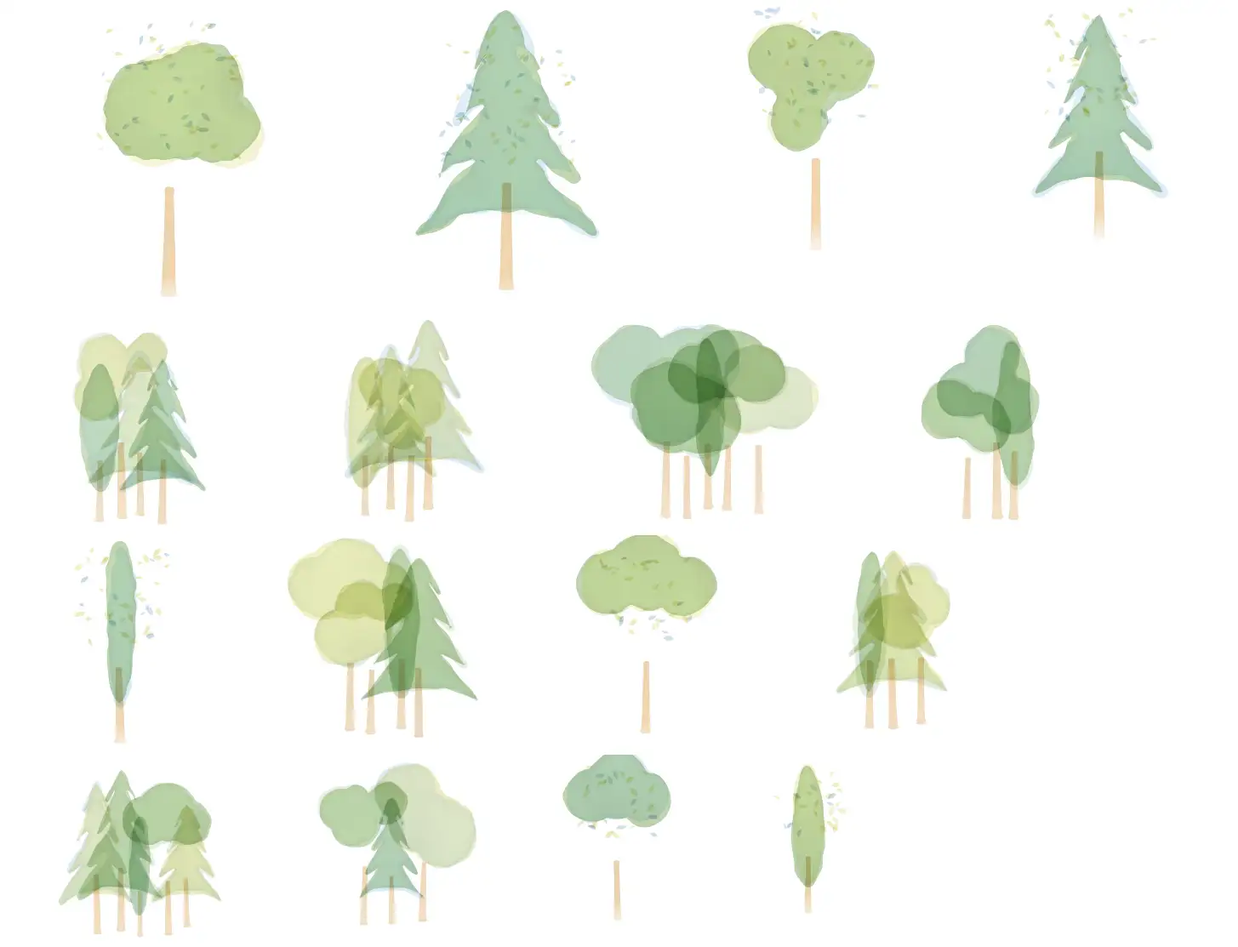
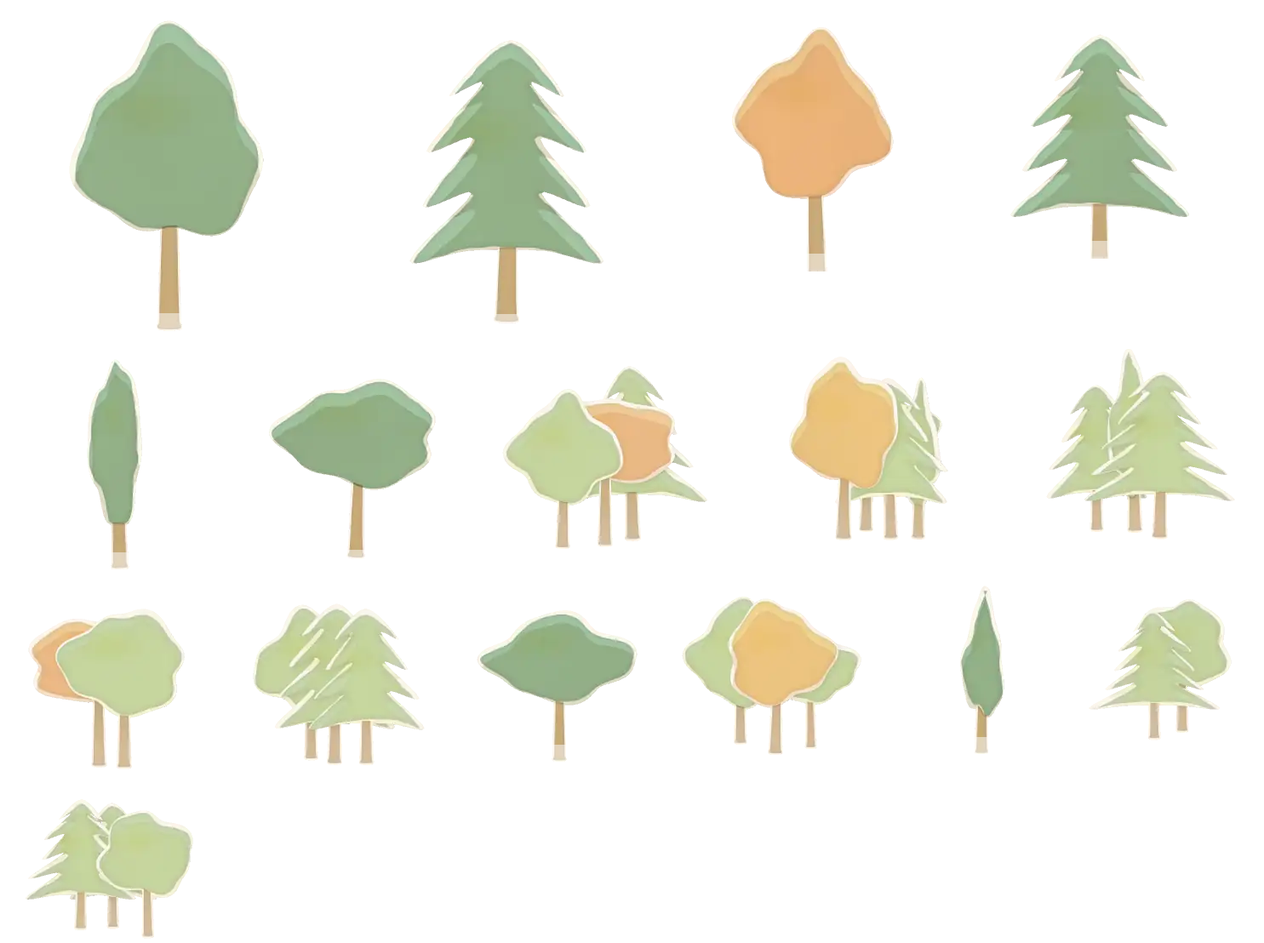
工房ホームページ：森を「水彩で染めた切り紙」に描き直し（秋）・透明つきの絵を軽く
- 森の木を1本ずつの紙に：白い切り口・手前の紙が奥を隠す・葉むらは幹の上に載る（葉が浮いて見えた）
- 奥の森は切り紙の2層と、層の間のもや。秋は広葉樹の一部を金・朱・黄土に（紙に直接）
- 手前の高い木は左右のふちだけ。中ほどの木は間をあけ、世界樹の前に壁を作らない
- 揺れる木は透明な地の紙の絵をそのまま重ね、影は動かない森の地に
- 透明つきの絵は、透明な所の色を紙の色にそろえ、透明度を詰めて webp に（図書館の壁・飛び出す紙・住人も軽く）

diff --git a/app.js b/app.js
@@ -1,7 +1,7 @@
 (() => {
   'use strict';
   // 台帳（works.json）は、組み立ての時にここへ流しこむ（ページの外から文字は入らない）
-  const DATA = {"places":[{"id":"roots","name":"根元の工房","sub":"地図と道具","line":"会社の道具を、AIとつくる作業場。連載の中身を、触れる地図と道具にしました。"},{"id":"branch","name":"枝","sub":"カードの花","line":"節目に咲く、仕掛けつきのカード。LINE で送れます。"},{"id":"play","name":"遊び場","sub":"ミニゲーム","line":"触って遊べるミニゲームの部屋。ここから直に入れます。"},{"id":"spring","name":"泉","sub":"音楽","line":"AI音楽工房の MV。工房が企画し、BGM&V Studio が制作しています。"},{"id":"cave","name":"洞窟","sub":"連載と動画","line":"経営者のための連載「AI内製化の羅針盤」と、記事の動画。"},{"id":"cloud","name":"雲の上","sub":"旅","line":"本物の旅のしおりと、想像の世界旅行。"}],"notice":["当工房では職人が気ままに作っているため、突然変更が入ったり、途中でとまっているコンテンツがあったりします。","これは作成途中をリアルタイムにお見せする趣旨のものですので、作りかけの雰囲気も含めて楽しんでもらい、成長を見守っていただけたら幸いです。"],"voices":{"調整中":["ちょっと調整中。見てもいいけど変なところがあっても気にしないでね。","いま、ねじを締め直しているところ。動くけど、ときどきガタッとするかも。","仕上げの真っ最中！ 気づいたことがあったら、そっと教えてね。","ただいま磨き中。ピカピカになるまで、もう少し。"],"作りかけ":["ただいま作りかけ。リアルタイム進行中。","まだ骨組みだけど、のぞいていってね。","作っている途中をそのまま見せちゃうよ。明日には変わってるかも！","工房の机の上で、いま組み立て中。"],"準備中":["今作成中だよ！もうすぐ公開するね！","まだ種の中。芽が出たら、ここでお知らせするね。","いま、絵の具を溶いているところ。もう少しだけ待っててね。","職人がこっそり仕込み中。お楽しみに！"]},"works":[{"place":"roots","group":"3Dの地図","kind":"触れる","name":"4つの島の航海図（利益マップ）","note":"「何から入れると儲かる？」を、3Dの海図に。","url":"https://tatatasan323-cell.github.io/note-app/"},{"place":"roots","group":"3Dの地図","kind":"触れる","name":"天空の城への道（内製化ロードマップ）","note":"6つの関門を越えて、天空の城へ。","url":"https://tatatasan323-cell.github.io/note-app/road.html"},{"place":"roots","group":"3Dの地図","kind":"触れる","name":"AIの全体地図（6層＋4横断面）","note":"会社のAIの仕組みを、6つの層で見る。","url":"https://tatatasan323-cell.github.io/note-app/arch.html"},{"place":"roots","group":"3Dの地図","kind":"触れる","name":"そもそもAIって？ 5部作の地図","note":"「そもそもAIって？」5本の地図。","url":"https://tatatasan323-cell.github.io/note-app/aimap/"},{"place":"roots","group":"道具","kind":"触れる","name":"城 ─ 経営ステータス","note":"社長の一枚画面。架空の会社で動くデモ。","url":"https://tatatasan323-cell.github.io/castle/"},{"place":"roots","group":"道具","kind":"触れる","name":"転記ゼロ（tenki-zero 体験版）","note":"転記の手作業をなくす仕組みを、ブラウザで試す。","url":"https://tatatasan323-cell.github.io/tenki-zero/"},{"place":"roots","group":"手引き","kind":"読む","name":"AIエージェント利用ガイド","note":"部下としてハーネスする。社内で配れる手引き。","url":"https://tatatasan323-cell.github.io/note-app/ai-agent-guide.html"},{"place":"roots","group":"手引き","kind":"読む","name":"乗っ取り対策の手引き","note":"パスキーでも守れない、2つの穴。","url":"https://tatatasan323-cell.github.io/note-app/security-guide.html"},{"place":"roots","group":"手引き","kind":"読む","name":"会社のセキュリティ段階表","note":"自社の段階を確かめる表。","url":"https://tatatasan323-cell.github.io/note-app/security-levels.html"},{"place":"roots","group":"時報","kind":"読む","name":"ＡＩ内製化時報 第001号","note":"システムプロンプト、八割削除。","url":"https://tatatasan323-cell.github.io/note-app/jihou-001.html"},{"place":"roots","group":"時報","kind":"読む","name":"ＡＩ内製化時報 第002号","note":"穴を空けたのはAI、突いたのもAI。","url":"https://tatatasan323-cell.github.io/note-app/jihou-002.html"},{"place":"roots","group":"工房のこれから","kind":"歩く","status":"準備中","name":"世界樹の村（3Dで歩ける町）","note":"この地図の本から入って、村を歩けるようにします。","url":""},{"place":"branch","group":"カード","kind":"触れる","name":"ハロウィン招待状 ─ おばけの庭へようこそ","note":"おばけに触れると、音と豆知識。","url":"https://tatatasan323-cell.github.io/gimmick-cards/halloween/"},{"place":"branch","group":"カード","kind":"触れる","name":"とろけて聖夜 ─ おかしな港町","note":"宝石をはじき、ステンドグラスを割り、氷を削る冬の港町（動く3D）。","url":"https://tatatasan323-cell.github.io/gimmick-cards/christmas-town/"},{"place":"branch","group":"カード","kind":"触れる","name":"とろけて聖夜 ─ X'mas グリーティングカード","note":"港町とつながるカード。","url":"https://tatatasan323-cell.github.io/gimmick-cards/christmas-town/card.html"},{"place":"branch","group":"カード","kind":"触れる","status":"調整中","name":"正月のカード ─ 作品の一覧","note":"正月のカード 76 作。絵を押すと、さわって動く本物が開きます。","url":"https://ai-naiseika.github.io/cards/shogatsu/"},{"place":"branch","group":"カード","kind":"触れる","status":"作りかけ","name":"送る予定 ─ 節目のカード","note":"カードを、あとで送るための予定。時間になったら、スマホのカレンダーが知らせます。","url":"https://ai-naiseika.github.io/cards/yotei/"},{"place":"play","group":"おかしな港町の部屋","kind":"触れる","name":"ステンドグラスの礼拝堂","note":"窓をタップすると、かけらが落ちて砕け、光の粒になって元の窓へ。","date":"2026-10-16","url":"https://tatatasan323-cell.github.io/gimmick-cards/christmas-town/glass.html?from=kobo"},{"place":"play","group":"おかしな港町の部屋","kind":"触れる","name":"宝石の美術館","note":"一人称で歩く大ホール。宝石はそっと触ると歌い、強くたたくと…？","date":"2026-10-16","url":"https://tatatasan323-cell.github.io/gimmick-cards/christmas-town/museum.html?from=kobo"},{"place":"play","group":"おかしな港町の部屋","kind":"触れる","name":"氷の彫像の広場","note":"ノミでコンコン、機械でガリガリ。削って宝石を取り出す。","date":"2026-10-16","url":"https://tatatasan323-cell.github.io/gimmick-cards/christmas-town/ice.html?from=kobo"},{"place":"play","group":"おかしな港町の部屋","kind":"触れる","name":"ぷるぷる水そう","note":"水の中を泳ぎながら、グミたちをつまんで伸ばす。","date":"2026-10-16","url":"https://tatatasan323-cell.github.io/gimmick-cards/christmas-town/swim.html?from=kobo"},{"place":"play","group":"おかしな港町の部屋","kind":"触れる","name":"グミのつみき","note":"空に浮かぶテーブルで、グミの積み木。はじいて、持って、高く積む。","date":"2026-10-16","url":"https://tatatasan323-cell.github.io/gimmick-cards/christmas-town/blocks.html?from=kobo"},{"place":"spring","group":"MV","kind":"見る","name":"雨上がりの小径 ― 水たまりを、跳んでいたころ","note":"最初の MV。","date":"2026-10-06","url":"https://youtu.be/yi53ACtNxp8"},{"place":"spring","group":"MV","kind":"見る","name":"パンプキン・ポン！ ― ハロウィンの夜のドキドキ","note":"切り絵の魔女とモンスターの踊り。","date":"2026-10-14","url":"https://youtu.be/uFx4Vcr8o8A"},{"place":"spring","group":"MV","kind":"見る","name":"Friends Around the Table ─ テーブルに集まれ！","note":"クリスマス3部作の1本目。","date":"2026-10-19","url":"https://youtu.be/pEvqS5da3-s"},{"place":"spring","group":"MV","kind":"見る","name":"Christmas Feels Like Being ─ きみといる、それがクリスマス","note":"クリスマス3部作の2本目。","date":"2026-10-20","url":"https://youtu.be/Z6vJkx9_u-s"},{"place":"spring","group":"MV","kind":"見る","name":"Singing Glory ─ グローリー・グローリー！","note":"クリスマス3部作の3本目。","date":"2026-10-23","url":"https://youtu.be/oR3KyE3Zmxo"},{"place":"cave","group":"記事の動画","kind":"見る","name":"AI導入、なぜ罠にはまる？ ─ 天空の城へ続く「6つの関門」","note":"","date":"2026-10-13","url":"https://youtu.be/-Dja11xVGzQ"},{"place":"cave","group":"記事の動画","kind":"見る","name":"AI導入、まず何から？ ─ 儲けにつながる「4つの島」の航海図","note":"","date":"2026-10-10","url":"https://youtu.be/xKATNxc-q50"},{"place":"cave","group":"記事の動画","kind":"見る","name":"動画生成AIなしで描いた26の画風 ── コードで描くアニメーション見本帳","note":"","date":"2026-10-07","url":"https://youtu.be/dQ2MLnKi8rE"},{"place":"cave","group":"記事の動画","kind":"見る","name":"DeepSeekなど中国AIは業務に使っていい？ ー 決め手は性能でも価格でもなく「調達」","note":"","date":"2026-10-06","url":"https://youtu.be/P4EKVp7NFms"},{"place":"cave","group":"記事の動画","kind":"見る","name":"「AIで、仕事は消えるのか」──ある会社の \"未来の一日\"【朗読ストーリー】","note":"","date":"2026-08-15","url":"https://youtu.be/s-KqdbO6xWk"},{"place":"cave","group":"記事の動画","kind":"見る","name":"【HTMLとは？ Pythonとは？】 AI内製化の全体像が4分で分かる見取り図","note":"","date":"2026-07-27","url":"https://youtu.be/c1A3KVXweG0"},{"place":"cave","group":"記事の動画","kind":"見る","name":"【スクール不要】月3,000円で始めるAI内製化／総集編・全8話","note":"","date":"2026-07-03","url":"https://youtu.be/3dDNd_MuB0Y"},{"place":"cave","group":"物語","kind":"読む","name":"未来の一日 ─ どこにでもある会社の朝","note":"朗読ストーリーの本。","url":"https://tatatasan323-cell.github.io/note-app/mirai/"},{"place":"cave","group":"連載","kind":"読む","date":"2026-10-19","name":"AI利用、どこから始めるか。答えは「1人」と「1つの痛み」","url":"https://note.com/ai_naiseika/n/n27912da5b3da"},{"place":"cave","group":"連載","kind":"読む","date":"2026-10-13","name":"「スクールもコンサルも要らない」の、本当の意味","url":"https://note.com/ai_naiseika/n/n51217db465e9"},{"place":"cave","group":"連載","kind":"読む","date":"2026-10-12","name":"前橋の観光案内を、AIと2日で作る ー 「確かめた度合い」を隠さない作り方","url":"https://note.com/ai_naiseika/n/n5c6551d1beac"},{"place":"cave","group":"連載","kind":"読む","date":"2026-10-12","name":"工房からの警告 再び ー AIに任せていい所、いけない所","url":"https://note.com/ai_naiseika/n/neb45bbba31cf"},{"place":"cave","group":"連載","kind":"読む","date":"2026-10-10","name":"AIエージェントがあるのに、仕組みを作る理由 ー 内製化すべき2つの場所","url":"https://note.com/ai_naiseika/n/n667d22b71479"},{"place":"cave","group":"連載","kind":"読む","date":"2026-10-07","name":"会話だけで動画を作る ー【脱・動画生成】AIアニメーションの可能性","url":"https://note.com/ai_naiseika/n/na5e82389ac72"},{"place":"cave","group":"連載","kind":"読む","date":"2026-10-06","name":"工房からの警告 ー 「AIが勝手に動き回る？」報道の真偽と、守るべき場所","url":"https://note.com/ai_naiseika/n/n4c308409efd9"},{"place":"cave","group":"連載","kind":"読む","date":"2026-10-03","name":"ある日突然の「アカバン」 ー 生成AIサブスクの落とし穴","url":"https://note.com/ai_naiseika/n/n8923fd964394"},{"place":"cave","group":"連載","kind":"読む","date":"2026-09-29","name":"AI巨額投資の行く末 ー いつか来る「ババ抜き」ゲームの終わり","url":"https://note.com/ai_naiseika/n/nc9e8207bcf78"},{"place":"cave","group":"連載","kind":"読む","date":"2026-09-28","name":"パスキーも乗っ取られる時代に。必ずすべきセキュリティ対策とは。","url":"https://note.com/ai_naiseika/n/n5b747190fa6e"},{"place":"cave","group":"連載","kind":"読む","date":"2026-09-27","name":"AI暴走論と終末論のさなかで ー あなたがすべき一手とは","url":"https://note.com/ai_naiseika/n/nf04f65023439"},{"place":"cave","group":"連載","kind":"読む","date":"2026-09-21","name":"奇跡の37手から10年。中国AIの実力と、日本企業が引くべき一線。","url":"https://note.com/ai_naiseika/n/n31214e08120e"},{"place":"cave","group":"連載","kind":"読む","date":"2026-09-20","name":"AI依存症に陥らないためのガイド ー 「AIに聞く/指示する」2つの違い","url":"https://note.com/ai_naiseika/n/n4193a3063552"},{"place":"cave","group":"連載","kind":"読む","date":"2026-09-14","name":"あなたのAI、期待通り動きますか？ ー AIの力を引き出すための思考法","url":"https://note.com/ai_naiseika/n/n7e4462f1908f"},{"place":"cave","group":"連載","kind":"読む","date":"2026-09-08","name":"バックオフィスが消える日。社内ステータスがリアルに見える未来への羅針盤。","url":"https://note.com/ai_naiseika/n/n07f8688e64df"},{"place":"cave","group":"連載","kind":"読む","date":"2026-08-31","name":"AIが空けた穴を、別のAIが5日で見つけて突く ── 8月までのAI事故と、私の工房の点検結果","url":"https://note.com/ai_naiseika/n/ned77cf0c294e"},{"place":"cave","group":"連載","kind":"読む","date":"2026-08-26","name":"AIのこれから ─ 「情報の土台」を持つことの意味","url":"https://note.com/ai_naiseika/n/n54fd60e90f04"},{"place":"cave","group":"連載","kind":"読む","date":"2026-08-24","name":"AI最前線 ─ 代表5社の現在地と、内製化に使うべき道具","url":"https://note.com/ai_naiseika/n/n06bea781e796"},{"place":"cave","group":"連載","kind":"読む","date":"2026-08-17","name":"OpenAIという物語 ─ 「人類のためのAI」は、どこへ向かっているのか","url":"https://note.com/ai_naiseika/n/n12816bc47432"},{"place":"cave","group":"連載","kind":"読む","date":"2026-08-11","name":"70年というAIの歩み ─ その挑戦と、“ 奇跡の一手 ” と、一本の論文","url":"https://note.com/ai_naiseika/n/n3471aeed4c26"},{"place":"cave","group":"連載","kind":"読む","date":"2026-08-01","name":"AIとは本当は何なのか　優秀な相棒？　頼れる相談役？　得体のしれない何か？","url":"https://note.com/ai_naiseika/n/n33eadda7b1b0"},{"place":"cave","group":"連載","kind":"読む","date":"2026-07-31","name":"経営者が知るべき、最後まで残る仕事 ─ AIが連れて行く “異世界” の話","url":"https://note.com/ai_naiseika/n/ne340418a0949"},{"place":"cave","group":"連載","kind":"読む","date":"2026-07-28","name":"Anthropicが、自社のAI開発ツールの内部指示を8割以上削除。その真意は？","url":"https://note.com/ai_naiseika/n/nec9184d934b1"},{"place":"cave","group":"連載","kind":"読む","date":"2026-07-27","name":"HTMLとは？ Pythonとは？ ─ 目指す内製化を一目で理解する見取り図","url":"https://note.com/ai_naiseika/n/ne47dde16170f"},{"place":"cave","group":"連載","kind":"読む","date":"2026-07-23","name":"AIは本当に安全なのか？ 世間で騒がれているプロンプトインジェクションを回避する唯一の方法とは？","url":"https://note.com/ai_naiseika/n/nd3d82deb2f4f"},{"place":"cave","group":"連載","kind":"読む","date":"2026-07-20","name":"その事務仕事いつまでやるのですか？【２】　例えば転記作業が無くなる日","url":"https://note.com/ai_naiseika/n/n5f46bef5c41b"},{"place":"cave","group":"連載","kind":"読む","date":"2026-07-12","name":"その事務仕事いつまでやるのですか？【１】　例えば明細を放り込むだけのツール","url":"https://note.com/ai_naiseika/n/n56e563d80e2a"},{"place":"cave","group":"連載","kind":"読む","date":"2026-07-06","name":"AI導入、知らないと失敗する ─ 成功に近づくための「内製化ロードマップ」","url":"https://note.com/ai_naiseika/n/nbf98e9add127"},{"place":"cave","group":"連載","kind":"読む","date":"2026-07-04","name":"ぶっちゃけ、AIは何から入れると儲かる？ ─ 経営者のための “利益” の地図","url":"https://note.com/ai_naiseika/n/nb7e3a2ca7fca"},{"place":"cave","group":"連載","kind":"読む","date":"2026-06-29","name":"繰り返し定型作業をAIで ─ 一度の “仕組み” が大切","url":"https://note.com/ai_naiseika/n/n9462746fd8ba"},{"place":"cave","group":"連載","kind":"読む","date":"2026-06-22","name":"メールは良いのに、AIはダメ？ ─ 会社の情報を “どこまで外に出すか”","url":"https://note.com/ai_naiseika/n/n295bc71d253d"},{"place":"cave","group":"連載","kind":"読む","date":"2026-06-15","name":"プロトタイプは早い、本番はその先 ─ 内製化を「育てる」ということ","url":"https://note.com/ai_naiseika/n/n4f8ea3f4696d"},{"place":"cave","group":"連載","kind":"読む","date":"2026-06-12","name":"バイブコーディングが通用しなくなる日 ─ AIに渡す『要件定義』の話","url":"https://note.com/ai_naiseika/n/n5f043fb74a72"},{"place":"cave","group":"連載","kind":"読む","date":"2026-06-09","name":"AIは嘘をつかない。けれど、あなたに「忖度」する","url":"https://note.com/ai_naiseika/n/n34c94b0c2a20"},{"place":"cave","group":"連載","kind":"読む","date":"2026-06-04","name":"AIと迷走しないために、最初にやるべきこと","url":"https://note.com/ai_naiseika/n/nb72e3552d43d"},{"place":"cave","group":"連載","kind":"読む","date":"2026-05-31","name":"AIエージェントを、今日入れる ─ 使い方も、AIに聞けばいい","url":"https://note.com/ai_naiseika/n/n808d67e92440"},{"place":"cave","group":"連載","kind":"読む","date":"2026-05-26","name":"「こうしたい」と伝えるだけで、何かが作れる時代","url":"https://note.com/ai_naiseika/n/n912fbc83f1c6"},{"place":"cave","group":"連載","kind":"読む","date":"2026-05-25","name":"料理人だった私が、AI内製化でシステムを作れる理由","url":"https://note.com/ai_naiseika/n/nd6a51b98694c"},{"place":"cave","group":"連載","kind":"読む","date":"2026-05-18","name":"AIを学ぶのに「スクール」「コンサル」が要らない新時代","url":"https://note.com/ai_naiseika/n/ndfc95eb3f0fa"},{"place":"cloud","group":"旅のしおり","kind":"使う","name":"前橋まちあるき（12/20 まで）","note":"芸術祭と「詩のまち」を歩く案内。確かめた度合いを印で示す。","url":"https://tatatasan323-cell.github.io/note-app/tabi/maebashi/"},{"place":"cloud","group":"旅のしおり","kind":"使う","name":"松本まちあるき","note":"松本駅から美ヶ原温泉まで、ゆるく歩く参考メモ（11/7〜8 の例）。","url":"https://tatatasan323-cell.github.io/note-app/tabi/matsumoto-burari/"},{"place":"cloud","group":"世界旅行","kind":"見る","name":"想像の世界旅行","note":"雲に乗って、想像だけで世界を旅する部屋を作っています。","status":"準備中","url":""}],"links":[{"name":"note「AI内製化の羅針盤」","url":"https://note.com/ai_naiseika"},{"name":"YouTube「AI内製化工房 MITA」","url":"https://www.youtube.com/@ai_naiseika_mita"},{"name":"X @ai_naiseika","url":"https://x.com/ai_naiseika"},{"name":"音楽 BGM&V Studio（AI音楽工房の制作）","url":"https://www.youtube.com/@BackgroundMusicVideoStudio"}],"trees":{"sizes":[[1405,473],[1455,1113]],"cells":[[-172,254,378,259,641,362,21,494,0,1],[-24,267,339,249,284,629,145,497,0,1],[90,275,312,239,895,629,246,498,0,1],[187,287,314,226,0,887,354,494,0,1],[344,351,221,167,969,0,462,499,0,0],[449,358,206,157,0,316,549,497,0,0],[811,346,211,161,1192,0,910,491,0,0],[875,338,281,178,686,0,1017,494,0,0],[984,300,294,212,316,887,1130,496,0,1],[1084,253,324,262,315,362,1237,493,0,1],[1179,248,313,265,0,362,1333,495,0,1],[1292,258,298,259,1021,362,1438,503,0,1],[-169,274,398,360,0,0,30,620,1,1],[-11,352,322,288,1131,0,150,630,1,1],[136,380,268,244,625,629,270,610,1,1],[283,436,217,198,840,887,392,620,1,1],[344,326,351,314,0,0,520,630,1,0],[752,324,331,300,353,0,918,610,1,0],[933,428,226,206,612,887,1046,620,1,1],[1027,378,282,256,0,629,1168,620,1,1],[1121,338,338,302,791,0,1290,630,1,1],[1215,272,389,352,400,0,1410,610,1,1]]},"music":{"settings":{"volume":0.7,"overlap":4,"fade_in":4},"rules":[{"place":"roots","song":"03"},{"months":[12,1,2],"hours":[16,5],"song":"06"},{"hours":[5,11],"song":"01"},{"hours":[11,16],"songs":["04","05"]},{"hours":[16,5],"song":"02"}],"songs":[{"no":"01","title":"朝つゆの森","note":"朝の光が、葉の先の露をひとつずつ照らしていく森。チェレスタとオルゴールがきらきらと目をさまし、ハープとグロッケン、カリンバが続きます。フルートは、遠くで鳴く小鳥のように。","trivia":["チェレスタは、パリの楽器製作者オーギュスト・ミュステルが1886年に特許をとった楽器。","チャイコフスキーの『くるみ割り人形』の「金平糖の踊り」は、チェレスタを使った曲として有名。"],"file":"bgm/01.m4a","bpm":68.0,"ready":true},{"no":"02","title":"ほたるの灯る夜","note":"日が落ちて、森にほたるの小さな灯りがともる夜。チェレスタとオルゴール、ハープが静かに瞬き、言葉のないコーラスと鈴の音が、闇をやさしく包みます。","trivia":["オルゴールの歴史は1796年、ジュネーブの時計職人アントワーヌ・ファーブルの発明から始まったとされる。"],"file":"bgm/02.m4a","bpm":58.75,"ready":true},{"no":"03","title":"世界樹への祈り","note":"工房の根元で、世界樹に手を当てて祈るひととき。ケルトのハープが静かに語り、ティンホイッスルが風のように、チェロが大地のように深く響きます。","trivia":["アイルランドの国章はハープ。大統領や大臣の印章にも、アイルランドのユーロ硬貨にも描かれている。","国章のハープのお手本は、ダブリンのトリニティ・カレッジの博物館に残る14世紀のハープ。"],"file":"bgm/03.m4a","bpm":89.1,"ready":true},{"no":"04","title":"妖精たちのワルツ","note":"昼下がりの木もれ日の中、妖精たちが輪になって踊る3拍子。オルゴールとチェレスタがくるくる回り、ピチカートの弦が足どりを刻み、フルートが軽やかに舞います。","trivia":["ワルツは4分の3拍子の踊りの曲。1814〜15年のウィーン会議をきっかけに、ヨーロッパ中へ広まった。","『美しく青きドナウ』は「ワルツ王」ヨハン・シュトラウス2世の曲。1867年にウィーンで初演された。"],"file":"bgm/04.m4a","bpm":95.7,"ready":true},{"no":"05","title":"雨上がりのしずく","note":"雨がやんで、葉から落ちるしずくが光る森。ピアノとチェレスタが雫のように、カリンバがぽつぽつと、ウィンドチャイムが風にゆれて鳴ります。","trivia":["カリンバはアフリカの「親指ピアノ」の仲間。金属の鍵の親指ピアノは、約1300年前にザンベジ川のほとりで生まれたという。","ピアノの黒鍵だけを弾くと、五つの音でできた音階「ペンタトニック（五音音階）」になる。"],"file":"bgm/05.m4a","bpm":64.6,"ready":true},{"no":"06","title":"雪ふる森の冬ごもり","note":"雪が音を吸いこんで、しんと静かな冬の夜の森。チェレスタとオルゴール、ハープがやわらかく降り、グラスハーモニカの澄んだ響きが、雪明かりのように広がります。","trivia":["グラスハーモニカは、フランクリンが1761年に完成させた楽器。回るガラスの器のふちに、ぬれた指で触れて鳴らす。","モーツァルトも1791年、グラスハーモニカの入った「アダージョとロンド」（K.617）を書いた。"],"file":"bgm/06.m4a","bpm":68.0,"ready":true}]}};
+  const DATA = {"places":[{"id":"roots","name":"根元の工房","sub":"地図と道具","line":"会社の道具を、AIとつくる作業場。連載の中身を、触れる地図と道具にしました。"},{"id":"branch","name":"枝","sub":"カードの花","line":"節目に咲く、仕掛けつきのカード。LINE で送れます。"},{"id":"play","name":"遊び場","sub":"ミニゲーム","line":"触って遊べるミニゲームの部屋。ここから直に入れます。"},{"id":"spring","name":"泉","sub":"音楽","line":"AI音楽工房の MV。工房が企画し、BGM&V Studio が制作しています。"},{"id":"cave","name":"洞窟","sub":"連載と動画","line":"経営者のための連載「AI内製化の羅針盤」と、記事の動画。"},{"id":"cloud","name":"雲の上","sub":"旅","line":"本物の旅のしおりと、想像の世界旅行。"}],"notice":["当工房では職人が気ままに作っているため、突然変更が入ったり、途中でとまっているコンテンツがあったりします。","これは作成途中をリアルタイムにお見せする趣旨のものですので、作りかけの雰囲気も含めて楽しんでもらい、成長を見守っていただけたら幸いです。"],"voices":{"調整中":["ちょっと調整中。見てもいいけど変なところがあっても気にしないでね。","いま、ねじを締め直しているところ。動くけど、ときどきガタッとするかも。","仕上げの真っ最中！ 気づいたことがあったら、そっと教えてね。","ただいま磨き中。ピカピカになるまで、もう少し。"],"作りかけ":["ただいま作りかけ。リアルタイム進行中。","まだ骨組みだけど、のぞいていってね。","作っている途中をそのまま見せちゃうよ。明日には変わってるかも！","工房の机の上で、いま組み立て中。"],"準備中":["今作成中だよ！もうすぐ公開するね！","まだ種の中。芽が出たら、ここでお知らせするね。","いま、絵の具を溶いているところ。もう少しだけ待っててね。","職人がこっそり仕込み中。お楽しみに！"]},"works":[{"place":"roots","group":"3Dの地図","kind":"触れる","name":"4つの島の航海図（利益マップ）","note":"「何から入れると儲かる？」を、3Dの海図に。","url":"https://tatatasan323-cell.github.io/note-app/"},{"place":"roots","group":"3Dの地図","kind":"触れる","name":"天空の城への道（内製化ロードマップ）","note":"6つの関門を越えて、天空の城へ。","url":"https://tatatasan323-cell.github.io/note-app/road.html"},{"place":"roots","group":"3Dの地図","kind":"触れる","name":"AIの全体地図（6層＋4横断面）","note":"会社のAIの仕組みを、6つの層で見る。","url":"https://tatatasan323-cell.github.io/note-app/arch.html"},{"place":"roots","group":"3Dの地図","kind":"触れる","name":"そもそもAIって？ 5部作の地図","note":"「そもそもAIって？」5本の地図。","url":"https://tatatasan323-cell.github.io/note-app/aimap/"},{"place":"roots","group":"道具","kind":"触れる","name":"城 ─ 経営ステータス","note":"社長の一枚画面。架空の会社で動くデモ。","url":"https://tatatasan323-cell.github.io/castle/"},{"place":"roots","group":"道具","kind":"触れる","name":"転記ゼロ（tenki-zero 体験版）","note":"転記の手作業をなくす仕組みを、ブラウザで試す。","url":"https://tatatasan323-cell.github.io/tenki-zero/"},{"place":"roots","group":"手引き","kind":"読む","name":"AIエージェント利用ガイド","note":"部下としてハーネスする。社内で配れる手引き。","url":"https://tatatasan323-cell.github.io/note-app/ai-agent-guide.html"},{"place":"roots","group":"手引き","kind":"読む","name":"乗っ取り対策の手引き","note":"パスキーでも守れない、2つの穴。","url":"https://tatatasan323-cell.github.io/note-app/security-guide.html"},{"place":"roots","group":"手引き","kind":"読む","name":"会社のセキュリティ段階表","note":"自社の段階を確かめる表。","url":"https://tatatasan323-cell.github.io/note-app/security-levels.html"},{"place":"roots","group":"時報","kind":"読む","name":"ＡＩ内製化時報 第001号","note":"システムプロンプト、八割削除。","url":"https://tatatasan323-cell.github.io/note-app/jihou-001.html"},{"place":"roots","group":"時報","kind":"読む","name":"ＡＩ内製化時報 第002号","note":"穴を空けたのはAI、突いたのもAI。","url":"https://tatatasan323-cell.github.io/note-app/jihou-002.html"},{"place":"roots","group":"工房のこれから","kind":"歩く","status":"準備中","name":"世界樹の村（3Dで歩ける町）","note":"この地図の本から入って、村を歩けるようにします。","url":""},{"place":"branch","group":"カード","kind":"触れる","name":"ハロウィン招待状 ─ おばけの庭へようこそ","note":"おばけに触れると、音と豆知識。","url":"https://tatatasan323-cell.github.io/gimmick-cards/halloween/"},{"place":"branch","group":"カード","kind":"触れる","name":"とろけて聖夜 ─ おかしな港町","note":"宝石をはじき、ステンドグラスを割り、氷を削る冬の港町（動く3D）。","url":"https://tatatasan323-cell.github.io/gimmick-cards/christmas-town/"},{"place":"branch","group":"カード","kind":"触れる","name":"とろけて聖夜 ─ X'mas グリーティングカード","note":"港町とつながるカード。","url":"https://tatatasan323-cell.github.io/gimmick-cards/christmas-town/card.html"},{"place":"branch","group":"カード","kind":"触れる","status":"調整中","name":"正月のカード ─ 作品の一覧","note":"正月のカード 76 作。絵を押すと、さわって動く本物が開きます。","url":"https://ai-naiseika.github.io/cards/shogatsu/"},{"place":"branch","group":"カード","kind":"触れる","status":"作りかけ","name":"送る予定 ─ 節目のカード","note":"カードを、あとで送るための予定。時間になったら、スマホのカレンダーが知らせます。","url":"https://ai-naiseika.github.io/cards/yotei/"},{"place":"play","group":"おかしな港町の部屋","kind":"触れる","name":"ステンドグラスの礼拝堂","note":"窓をタップすると、かけらが落ちて砕け、光の粒になって元の窓へ。","date":"2026-10-16","url":"https://tatatasan323-cell.github.io/gimmick-cards/christmas-town/glass.html?from=kobo"},{"place":"play","group":"おかしな港町の部屋","kind":"触れる","name":"宝石の美術館","note":"一人称で歩く大ホール。宝石はそっと触ると歌い、強くたたくと…？","date":"2026-10-16","url":"https://tatatasan323-cell.github.io/gimmick-cards/christmas-town/museum.html?from=kobo"},{"place":"play","group":"おかしな港町の部屋","kind":"触れる","name":"氷の彫像の広場","note":"ノミでコンコン、機械でガリガリ。削って宝石を取り出す。","date":"2026-10-16","url":"https://tatatasan323-cell.github.io/gimmick-cards/christmas-town/ice.html?from=kobo"},{"place":"play","group":"おかしな港町の部屋","kind":"触れる","name":"ぷるぷる水そう","note":"水の中を泳ぎながら、グミたちをつまんで伸ばす。","date":"2026-10-16","url":"https://tatatasan323-cell.github.io/gimmick-cards/christmas-town/swim.html?from=kobo"},{"place":"play","group":"おかしな港町の部屋","kind":"触れる","name":"グミのつみき","note":"空に浮かぶテーブルで、グミの積み木。はじいて、持って、高く積む。","date":"2026-10-16","url":"https://tatatasan323-cell.github.io/gimmick-cards/christmas-town/blocks.html?from=kobo"},{"place":"spring","group":"MV","kind":"見る","name":"雨上がりの小径 ― 水たまりを、跳んでいたころ","note":"最初の MV。","date":"2026-10-06","url":"https://youtu.be/yi53ACtNxp8"},{"place":"spring","group":"MV","kind":"見る","name":"パンプキン・ポン！ ― ハロウィンの夜のドキドキ","note":"切り絵の魔女とモンスターの踊り。","date":"2026-10-14","url":"https://youtu.be/uFx4Vcr8o8A"},{"place":"spring","group":"MV","kind":"見る","name":"Friends Around the Table ─ テーブルに集まれ！","note":"クリスマス3部作の1本目。","date":"2026-10-19","url":"https://youtu.be/pEvqS5da3-s"},{"place":"spring","group":"MV","kind":"見る","name":"Christmas Feels Like Being ─ きみといる、それがクリスマス","note":"クリスマス3部作の2本目。","date":"2026-10-20","url":"https://youtu.be/Z6vJkx9_u-s"},{"place":"spring","group":"MV","kind":"見る","name":"Singing Glory ─ グローリー・グローリー！","note":"クリスマス3部作の3本目。","date":"2026-10-23","url":"https://youtu.be/oR3KyE3Zmxo"},{"place":"cave","group":"記事の動画","kind":"見る","name":"AI導入、なぜ罠にはまる？ ─ 天空の城へ続く「6つの関門」","note":"","date":"2026-10-13","url":"https://youtu.be/-Dja11xVGzQ"},{"place":"cave","group":"記事の動画","kind":"見る","name":"AI導入、まず何から？ ─ 儲けにつながる「4つの島」の航海図","note":"","date":"2026-10-10","url":"https://youtu.be/xKATNxc-q50"},{"place":"cave","group":"記事の動画","kind":"見る","name":"動画生成AIなしで描いた26の画風 ── コードで描くアニメーション見本帳","note":"","date":"2026-10-07","url":"https://youtu.be/dQ2MLnKi8rE"},{"place":"cave","group":"記事の動画","kind":"見る","name":"DeepSeekなど中国AIは業務に使っていい？ ー 決め手は性能でも価格でもなく「調達」","note":"","date":"2026-10-06","url":"https://youtu.be/P4EKVp7NFms"},{"place":"cave","group":"記事の動画","kind":"見る","name":"「AIで、仕事は消えるのか」──ある会社の \"未来の一日\"【朗読ストーリー】","note":"","date":"2026-08-15","url":"https://youtu.be/s-KqdbO6xWk"},{"place":"cave","group":"記事の動画","kind":"見る","name":"【HTMLとは？ Pythonとは？】 AI内製化の全体像が4分で分かる見取り図","note":"","date":"2026-07-27","url":"https://youtu.be/c1A3KVXweG0"},{"place":"cave","group":"記事の動画","kind":"見る","name":"【スクール不要】月3,000円で始めるAI内製化／総集編・全8話","note":"","date":"2026-07-03","url":"https://youtu.be/3dDNd_MuB0Y"},{"place":"cave","group":"物語","kind":"読む","name":"未来の一日 ─ どこにでもある会社の朝","note":"朗読ストーリーの本。","url":"https://tatatasan323-cell.github.io/note-app/mirai/"},{"place":"cave","group":"連載","kind":"読む","date":"2026-10-19","name":"AI利用、どこから始めるか。答えは「1人」と「1つの痛み」","url":"https://note.com/ai_naiseika/n/n27912da5b3da"},{"place":"cave","group":"連載","kind":"読む","date":"2026-10-13","name":"「スクールもコンサルも要らない」の、本当の意味","url":"https://note.com/ai_naiseika/n/n51217db465e9"},{"place":"cave","group":"連載","kind":"読む","date":"2026-10-12","name":"前橋の観光案内を、AIと2日で作る ー 「確かめた度合い」を隠さない作り方","url":"https://note.com/ai_naiseika/n/n5c6551d1beac"},{"place":"cave","group":"連載","kind":"読む","date":"2026-10-12","name":"工房からの警告 再び ー AIに任せていい所、いけない所","url":"https://note.com/ai_naiseika/n/neb45bbba31cf"},{"place":"cave","group":"連載","kind":"読む","date":"2026-10-10","name":"AIエージェントがあるのに、仕組みを作る理由 ー 内製化すべき2つの場所","url":"https://note.com/ai_naiseika/n/n667d22b71479"},{"place":"cave","group":"連載","kind":"読む","date":"2026-10-07","name":"会話だけで動画を作る ー【脱・動画生成】AIアニメーションの可能性","url":"https://note.com/ai_naiseika/n/na5e82389ac72"},{"place":"cave","group":"連載","kind":"読む","date":"2026-10-06","name":"工房からの警告 ー 「AIが勝手に動き回る？」報道の真偽と、守るべき場所","url":"https://note.com/ai_naiseika/n/n4c308409efd9"},{"place":"cave","group":"連載","kind":"読む","date":"2026-10-03","name":"ある日突然の「アカバン」 ー 生成AIサブスクの落とし穴","url":"https://note.com/ai_naiseika/n/n8923fd964394"},{"place":"cave","group":"連載","kind":"読む","date":"2026-09-29","name":"AI巨額投資の行く末 ー いつか来る「ババ抜き」ゲームの終わり","url":"https://note.com/ai_naiseika/n/nc9e8207bcf78"},{"place":"cave","group":"連載","kind":"読む","date":"2026-09-28","name":"パスキーも乗っ取られる時代に。必ずすべきセキュリティ対策とは。","url":"https://note.com/ai_naiseika/n/n5b747190fa6e"},{"place":"cave","group":"連載","kind":"読む","date":"2026-09-27","name":"AI暴走論と終末論のさなかで ー あなたがすべき一手とは","url":"https://note.com/ai_naiseika/n/nf04f65023439"},{"place":"cave","group":"連載","kind":"読む","date":"2026-09-21","name":"奇跡の37手から10年。中国AIの実力と、日本企業が引くべき一線。","url":"https://note.com/ai_naiseika/n/n31214e08120e"},{"place":"cave","group":"連載","kind":"読む","date":"2026-09-20","name":"AI依存症に陥らないためのガイド ー 「AIに聞く/指示する」2つの違い","url":"https://note.com/ai_naiseika/n/n4193a3063552"},{"place":"cave","group":"連載","kind":"読む","date":"2026-09-14","name":"あなたのAI、期待通り動きますか？ ー AIの力を引き出すための思考法","url":"https://note.com/ai_naiseika/n/n7e4462f1908f"},{"place":"cave","group":"連載","kind":"読む","date":"2026-09-08","name":"バックオフィスが消える日。社内ステータスがリアルに見える未来への羅針盤。","url":"https://note.com/ai_naiseika/n/n07f8688e64df"},{"place":"cave","group":"連載","kind":"読む","date":"2026-08-31","name":"AIが空けた穴を、別のAIが5日で見つけて突く ── 8月までのAI事故と、私の工房の点検結果","url":"https://note.com/ai_naiseika/n/ned77cf0c294e"},{"place":"cave","group":"連載","kind":"読む","date":"2026-08-26","name":"AIのこれから ─ 「情報の土台」を持つことの意味","url":"https://note.com/ai_naiseika/n/n54fd60e90f04"},{"place":"cave","group":"連載","kind":"読む","date":"2026-08-24","name":"AI最前線 ─ 代表5社の現在地と、内製化に使うべき道具","url":"https://note.com/ai_naiseika/n/n06bea781e796"},{"place":"cave","group":"連載","kind":"読む","date":"2026-08-17","name":"OpenAIという物語 ─ 「人類のためのAI」は、どこへ向かっているのか","url":"https://note.com/ai_naiseika/n/n12816bc47432"},{"place":"cave","group":"連載","kind":"読む","date":"2026-08-11","name":"70年というAIの歩み ─ その挑戦と、“ 奇跡の一手 ” と、一本の論文","url":"https://note.com/ai_naiseika/n/n3471aeed4c26"},{"place":"cave","group":"連載","kind":"読む","date":"2026-08-01","name":"AIとは本当は何なのか　優秀な相棒？　頼れる相談役？　得体のしれない何か？","url":"https://note.com/ai_naiseika/n/n33eadda7b1b0"},{"place":"cave","group":"連載","kind":"読む","date":"2026-07-31","name":"経営者が知るべき、最後まで残る仕事 ─ AIが連れて行く “異世界” の話","url":"https://note.com/ai_naiseika/n/ne340418a0949"},{"place":"cave","group":"連載","kind":"読む","date":"2026-07-28","name":"Anthropicが、自社のAI開発ツールの内部指示を8割以上削除。その真意は？","url":"https://note.com/ai_naiseika/n/nec9184d934b1"},{"place":"cave","group":"連載","kind":"読む","date":"2026-07-27","name":"HTMLとは？ Pythonとは？ ─ 目指す内製化を一目で理解する見取り図","url":"https://note.com/ai_naiseika/n/ne47dde16170f"},{"place":"cave","group":"連載","kind":"読む","date":"2026-07-23","name":"AIは本当に安全なのか？ 世間で騒がれているプロンプトインジェクションを回避する唯一の方法とは？","url":"https://note.com/ai_naiseika/n/nd3d82deb2f4f"},{"place":"cave","group":"連載","kind":"読む","date":"2026-07-20","name":"その事務仕事いつまでやるのですか？【２】　例えば転記作業が無くなる日","url":"https://note.com/ai_naiseika/n/n5f46bef5c41b"},{"place":"cave","group":"連載","kind":"読む","date":"2026-07-12","name":"その事務仕事いつまでやるのですか？【１】　例えば明細を放り込むだけのツール","url":"https://note.com/ai_naiseika/n/n56e563d80e2a"},{"place":"cave","group":"連載","kind":"読む","date":"2026-07-06","name":"AI導入、知らないと失敗する ─ 成功に近づくための「内製化ロードマップ」","url":"https://note.com/ai_naiseika/n/nbf98e9add127"},{"place":"cave","group":"連載","kind":"読む","date":"2026-07-04","name":"ぶっちゃけ、AIは何から入れると儲かる？ ─ 経営者のための “利益” の地図","url":"https://note.com/ai_naiseika/n/nb7e3a2ca7fca"},{"place":"cave","group":"連載","kind":"読む","date":"2026-06-29","name":"繰り返し定型作業をAIで ─ 一度の “仕組み” が大切","url":"https://note.com/ai_naiseika/n/n9462746fd8ba"},{"place":"cave","group":"連載","kind":"読む","date":"2026-06-22","name":"メールは良いのに、AIはダメ？ ─ 会社の情報を “どこまで外に出すか”","url":"https://note.com/ai_naiseika/n/n295bc71d253d"},{"place":"cave","group":"連載","kind":"読む","date":"2026-06-15","name":"プロトタイプは早い、本番はその先 ─ 内製化を「育てる」ということ","url":"https://note.com/ai_naiseika/n/n4f8ea3f4696d"},{"place":"cave","group":"連載","kind":"読む","date":"2026-06-12","name":"バイブコーディングが通用しなくなる日 ─ AIに渡す『要件定義』の話","url":"https://note.com/ai_naiseika/n/n5f043fb74a72"},{"place":"cave","group":"連載","kind":"読む","date":"2026-06-09","name":"AIは嘘をつかない。けれど、あなたに「忖度」する","url":"https://note.com/ai_naiseika/n/n34c94b0c2a20"},{"place":"cave","group":"連載","kind":"読む","date":"2026-06-04","name":"AIと迷走しないために、最初にやるべきこと","url":"https://note.com/ai_naiseika/n/nb72e3552d43d"},{"place":"cave","group":"連載","kind":"読む","date":"2026-05-31","name":"AIエージェントを、今日入れる ─ 使い方も、AIに聞けばいい","url":"https://note.com/ai_naiseika/n/n808d67e92440"},{"place":"cave","group":"連載","kind":"読む","date":"2026-05-26","name":"「こうしたい」と伝えるだけで、何かが作れる時代","url":"https://note.com/ai_naiseika/n/n912fbc83f1c6"},{"place":"cave","group":"連載","kind":"読む","date":"2026-05-25","name":"料理人だった私が、AI内製化でシステムを作れる理由","url":"https://note.com/ai_naiseika/n/nd6a51b98694c"},{"place":"cave","group":"連載","kind":"読む","date":"2026-05-18","name":"AIを学ぶのに「スクール」「コンサル」が要らない新時代","url":"https://note.com/ai_naiseika/n/ndfc95eb3f0fa"},{"place":"cloud","group":"旅のしおり","kind":"使う","name":"前橋まちあるき（12/20 まで）","note":"芸術祭と「詩のまち」を歩く案内。確かめた度合いを印で示す。","url":"https://tatatasan323-cell.github.io/note-app/tabi/maebashi/"},{"place":"cloud","group":"旅のしおり","kind":"使う","name":"松本まちあるき","note":"松本駅から美ヶ原温泉まで、ゆるく歩く参考メモ（11/7〜8 の例）。","url":"https://tatatasan323-cell.github.io/note-app/tabi/matsumoto-burari/"},{"place":"cloud","group":"世界旅行","kind":"見る","name":"想像の世界旅行","note":"雲に乗って、想像だけで世界を旅する部屋を作っています。","status":"準備中","url":""}],"links":[{"name":"note「AI内製化の羅針盤」","url":"https://note.com/ai_naiseika"},{"name":"YouTube「AI内製化工房 MITA」","url":"https://www.youtube.com/@ai_naiseika_mita"},{"name":"X @ai_naiseika","url":"https://x.com/ai_naiseika"},{"name":"音楽 BGM&V Studio（AI音楽工房の制作）","url":"https://www.youtube.com/@BackgroundMusicVideoStudio"}],"trees":{"sizes":[[1334,481],[1485,1108]],"cells":[[-153,268,314,243,868,396,12,495,0,1],[-7,283,281,227,261,677,128,494,0,1],[102,302,270,216,772,677,241,497,0,1],[234,319,265,197,0,911,368,495,0,1],[374,349,194,163,947,0,477,495,0,0],[465,366,189,151,1143,0,566,503,0,0],[813,367,184,136,0,345,906,489,0,0],[897,324,259,185,686,0,1018,489,0,0],[1016,313,220,198,1263,677,1126,493,0,1],[1079,274,296,243,1184,396,1223,497,0,1],[1198,256,312,254,554,396,1349,492,0,1],[1313,284,259,232,0,677,1444,501,0,1],[-169,240,398,394,0,0,30,620,1,1],[-11,325,322,315,1131,0,150,630,1,1],[136,358,268,266,284,396,270,610,1,1],[283,419,217,215,1044,677,392,620,1,1],[344,297,351,343,0,0,520,630,1,0],[752,297,331,327,353,0,918,610,1,0],[933,410,226,224,544,677,1046,620,1,1],[1027,355,282,279,0,396,1168,620,1,1],[1121,310,338,330,791,0,1290,630,1,1],[1215,239,389,385,400,0,1410,610,1,1]]},"music":{"settings":{"volume":0.7,"overlap":4,"fade_in":4},"rules":[{"place":"roots","song":"03"},{"months":[12,1,2],"hours":[16,5],"song":"06"},{"hours":[5,11],"song":"01"},{"hours":[11,16],"songs":["04","05"]},{"hours":[16,5],"song":"02"}],"songs":[{"no":"01","title":"朝つゆの森","note":"朝の光が、葉の先の露をひとつずつ照らしていく森。チェレスタとオルゴールがきらきらと目をさまし、ハープとグロッケン、カリンバが続きます。フルートは、遠くで鳴く小鳥のように。","trivia":["チェレスタは、パリの楽器製作者オーギュスト・ミュステルが1886年に特許をとった楽器。","チャイコフスキーの『くるみ割り人形』の「金平糖の踊り」は、チェレスタを使った曲として有名。"],"file":"bgm/01.m4a","bpm":68.0,"ready":true},{"no":"02","title":"ほたるの灯る夜","note":"日が落ちて、森にほたるの小さな灯りがともる夜。チェレスタとオルゴール、ハープが静かに瞬き、言葉のないコーラスと鈴の音が、闇をやさしく包みます。","trivia":["オルゴールの歴史は1796年、ジュネーブの時計職人アントワーヌ・ファーブルの発明から始まったとされる。"],"file":"bgm/02.m4a","bpm":58.75,"ready":true},{"no":"03","title":"世界樹への祈り","note":"工房の根元で、世界樹に手を当てて祈るひととき。ケルトのハープが静かに語り、ティンホイッスルが風のように、チェロが大地のように深く響きます。","trivia":["アイルランドの国章はハープ。大統領や大臣の印章にも、アイルランドのユーロ硬貨にも描かれている。","国章のハープのお手本は、ダブリンのトリニティ・カレッジの博物館に残る14世紀のハープ。"],"file":"bgm/03.m4a","bpm":89.1,"ready":true},{"no":"04","title":"妖精たちのワルツ","note":"昼下がりの木もれ日の中、妖精たちが輪になって踊る3拍子。オルゴールとチェレスタがくるくる回り、ピチカートの弦が足どりを刻み、フルートが軽やかに舞います。","trivia":["ワルツは4分の3拍子の踊りの曲。1814〜15年のウィーン会議をきっかけに、ヨーロッパ中へ広まった。","『美しく青きドナウ』は「ワルツ王」ヨハン・シュトラウス2世の曲。1867年にウィーンで初演された。"],"file":"bgm/04.m4a","bpm":95.7,"ready":true},{"no":"05","title":"雨上がりのしずく","note":"雨がやんで、葉から落ちるしずくが光る森。ピアノとチェレスタが雫のように、カリンバがぽつぽつと、ウィンドチャイムが風にゆれて鳴ります。","trivia":["カリンバはアフリカの「親指ピアノ」の仲間。金属の鍵の親指ピアノは、約1300年前にザンベジ川のほとりで生まれたという。","ピアノの黒鍵だけを弾くと、五つの音でできた音階「ペンタトニック（五音音階）」になる。"],"file":"bgm/05.m4a","bpm":64.6,"ready":true},{"no":"06","title":"雪ふる森の冬ごもり","note":"雪が音を吸いこんで、しんと静かな冬の夜の森。チェレスタとオルゴール、ハープがやわらかく降り、グラスハーモニカの澄んだ響きが、雪明かりのように広がります。","trivia":["グラスハーモニカは、フランクリンが1761年に完成させた楽器。回るガラスの器のふちに、ぬれた指で触れて鳴らす。","モーツァルトも1791年、グラスハーモニカの入った「アダージョとロンド」（K.617）を書いた。"],"file":"bgm/06.m4a","bpm":68.0,"ready":true}]}};
   const $ = (id) => document.getElementById(id);
   const PLACES = new Map(DATA.places.map((p) => [p.id, p]));
   const stage = $('stage'), ui = $('stageUi'), wrap = $('stageWrap'), labelsBox = $('labels'), prompt = $('prompt');
@@ -584,7 +584,7 @@
   const trees = [], gusts = [], birds = [];
   const treesW = wrap.querySelector('.trees-w'), birdsBox = stage.querySelector('.birds'), amb = ui.querySelector('.ambient');
   const cloud = wrap.querySelector('.t-cloud'), glowEl = wrap.querySelector('.t-glow'), raysEl = wrap.querySelector('.t-rays'), wt = stage.querySelector('.w-tree');
-  if (TR) {   // 森の木の部品（森の地に掛け算で重ねる）。スマホは舞台の中（見える6組だけ）、PC は舞台の外の森の層の上（全部）
+  if (TR) {   // 森の木の部品（紙の木を森の地に重ねる）。スマホは舞台の中（見える6組だけ）、PC は舞台の外の森の層の上（全部）
     const fr = document.createDocumentFragment();
     for (const c of TR.cells) for (const wide of [false, true]) {
       if (!wide && c[9] !== 0) continue;

diff --git a/style.css b/style.css
@@ -43,7 +43,7 @@ a{color:inherit}
 .stage.instant~.forest-wide{transition:none!important}
 /* 森の木（風で揺れる部品・白地）：森の地に掛け算で重ねる（森の膜は掛け算なので、前の1枚の森と同じ色）。
    箱でくくらない（くくると掛け算が箱の中だけになり、白地が出る）。スマホは舞台の中・PC は舞台の外の森の層の上。JS が根元を軸にしならせる */
-.tr{position:absolute;display:block;left:0;top:0;pointer-events:none;mix-blend-mode:multiply;background-repeat:no-repeat}
+.tr{position:absolute;display:block;left:0;top:0;pointer-events:none;background-repeat:no-repeat}   /* 紙の木（透明な地）をそのまま重ねる：手前の紙が奥を隠す（掛け算だと紙が透けた） */
 .tr.s0{background-image:url(img/trees_c.webp)}
 .tr.s1{background-image:url(img/trees_w.webp)}
 .wait .tr,.wait .forest-wide{background-image:none!important}   /* 開いた後の森は、最初の絵（図書館）が出てから読む（JS が wait を外す） */
